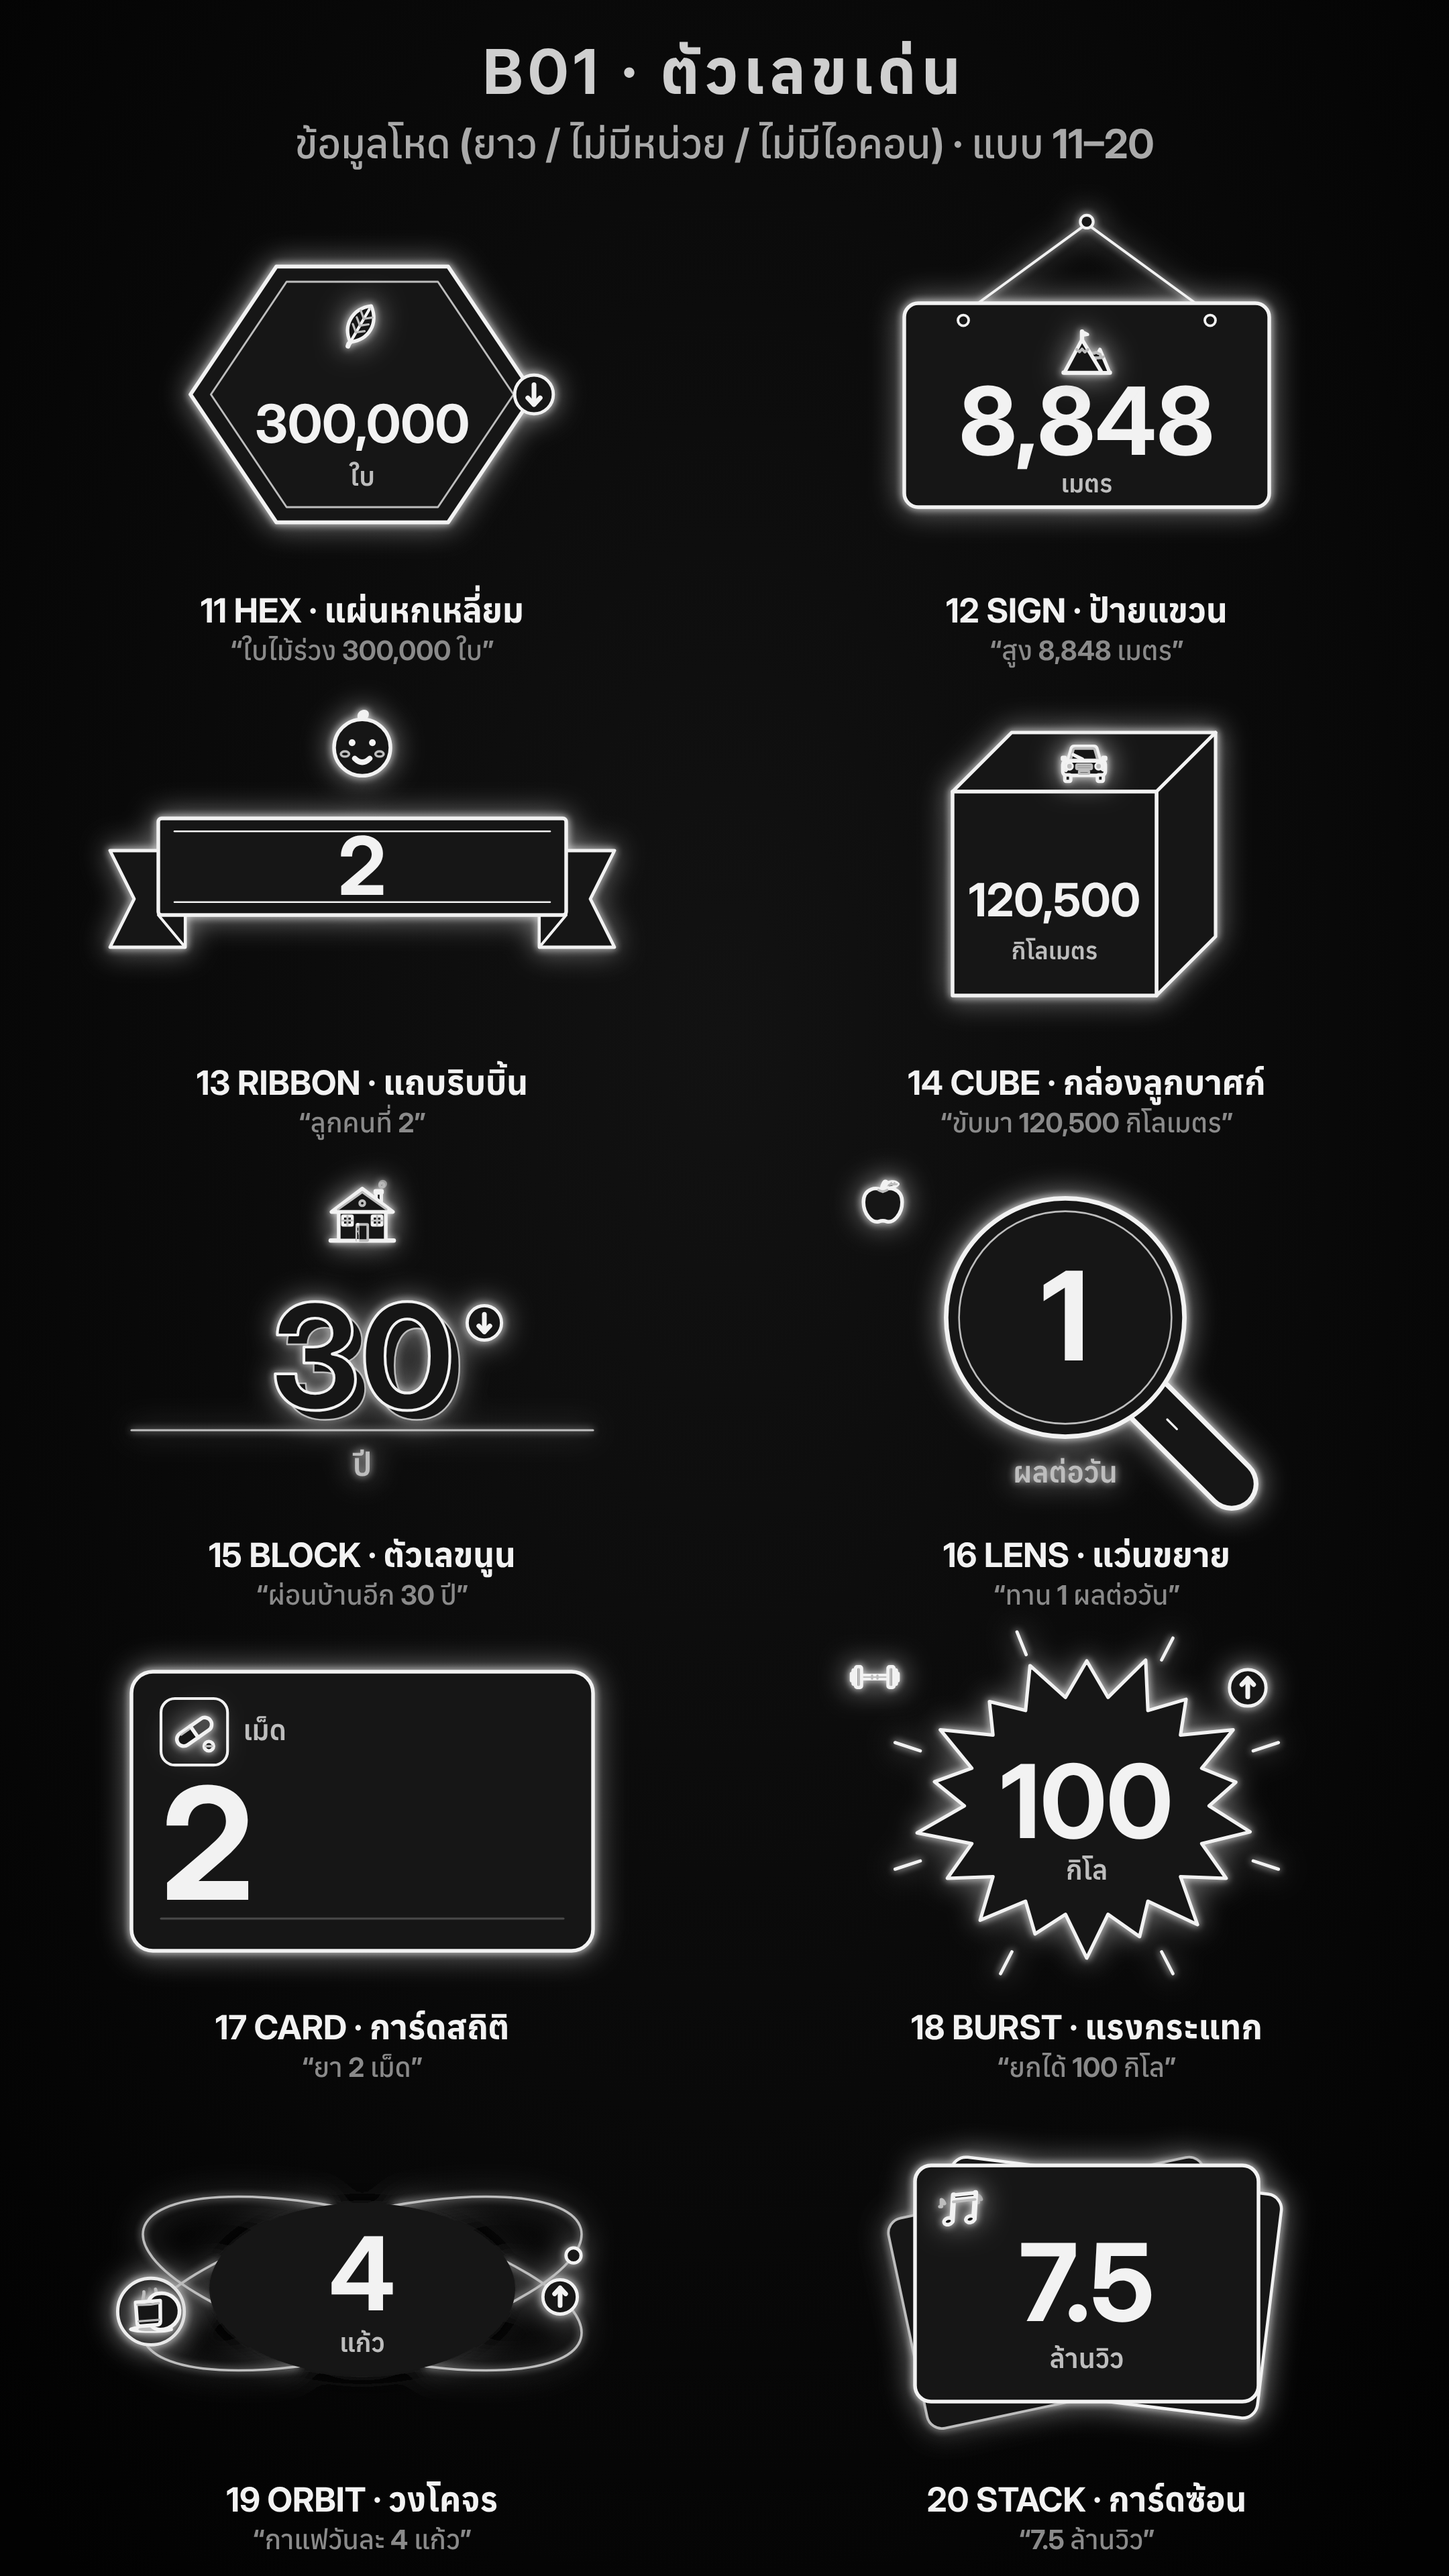
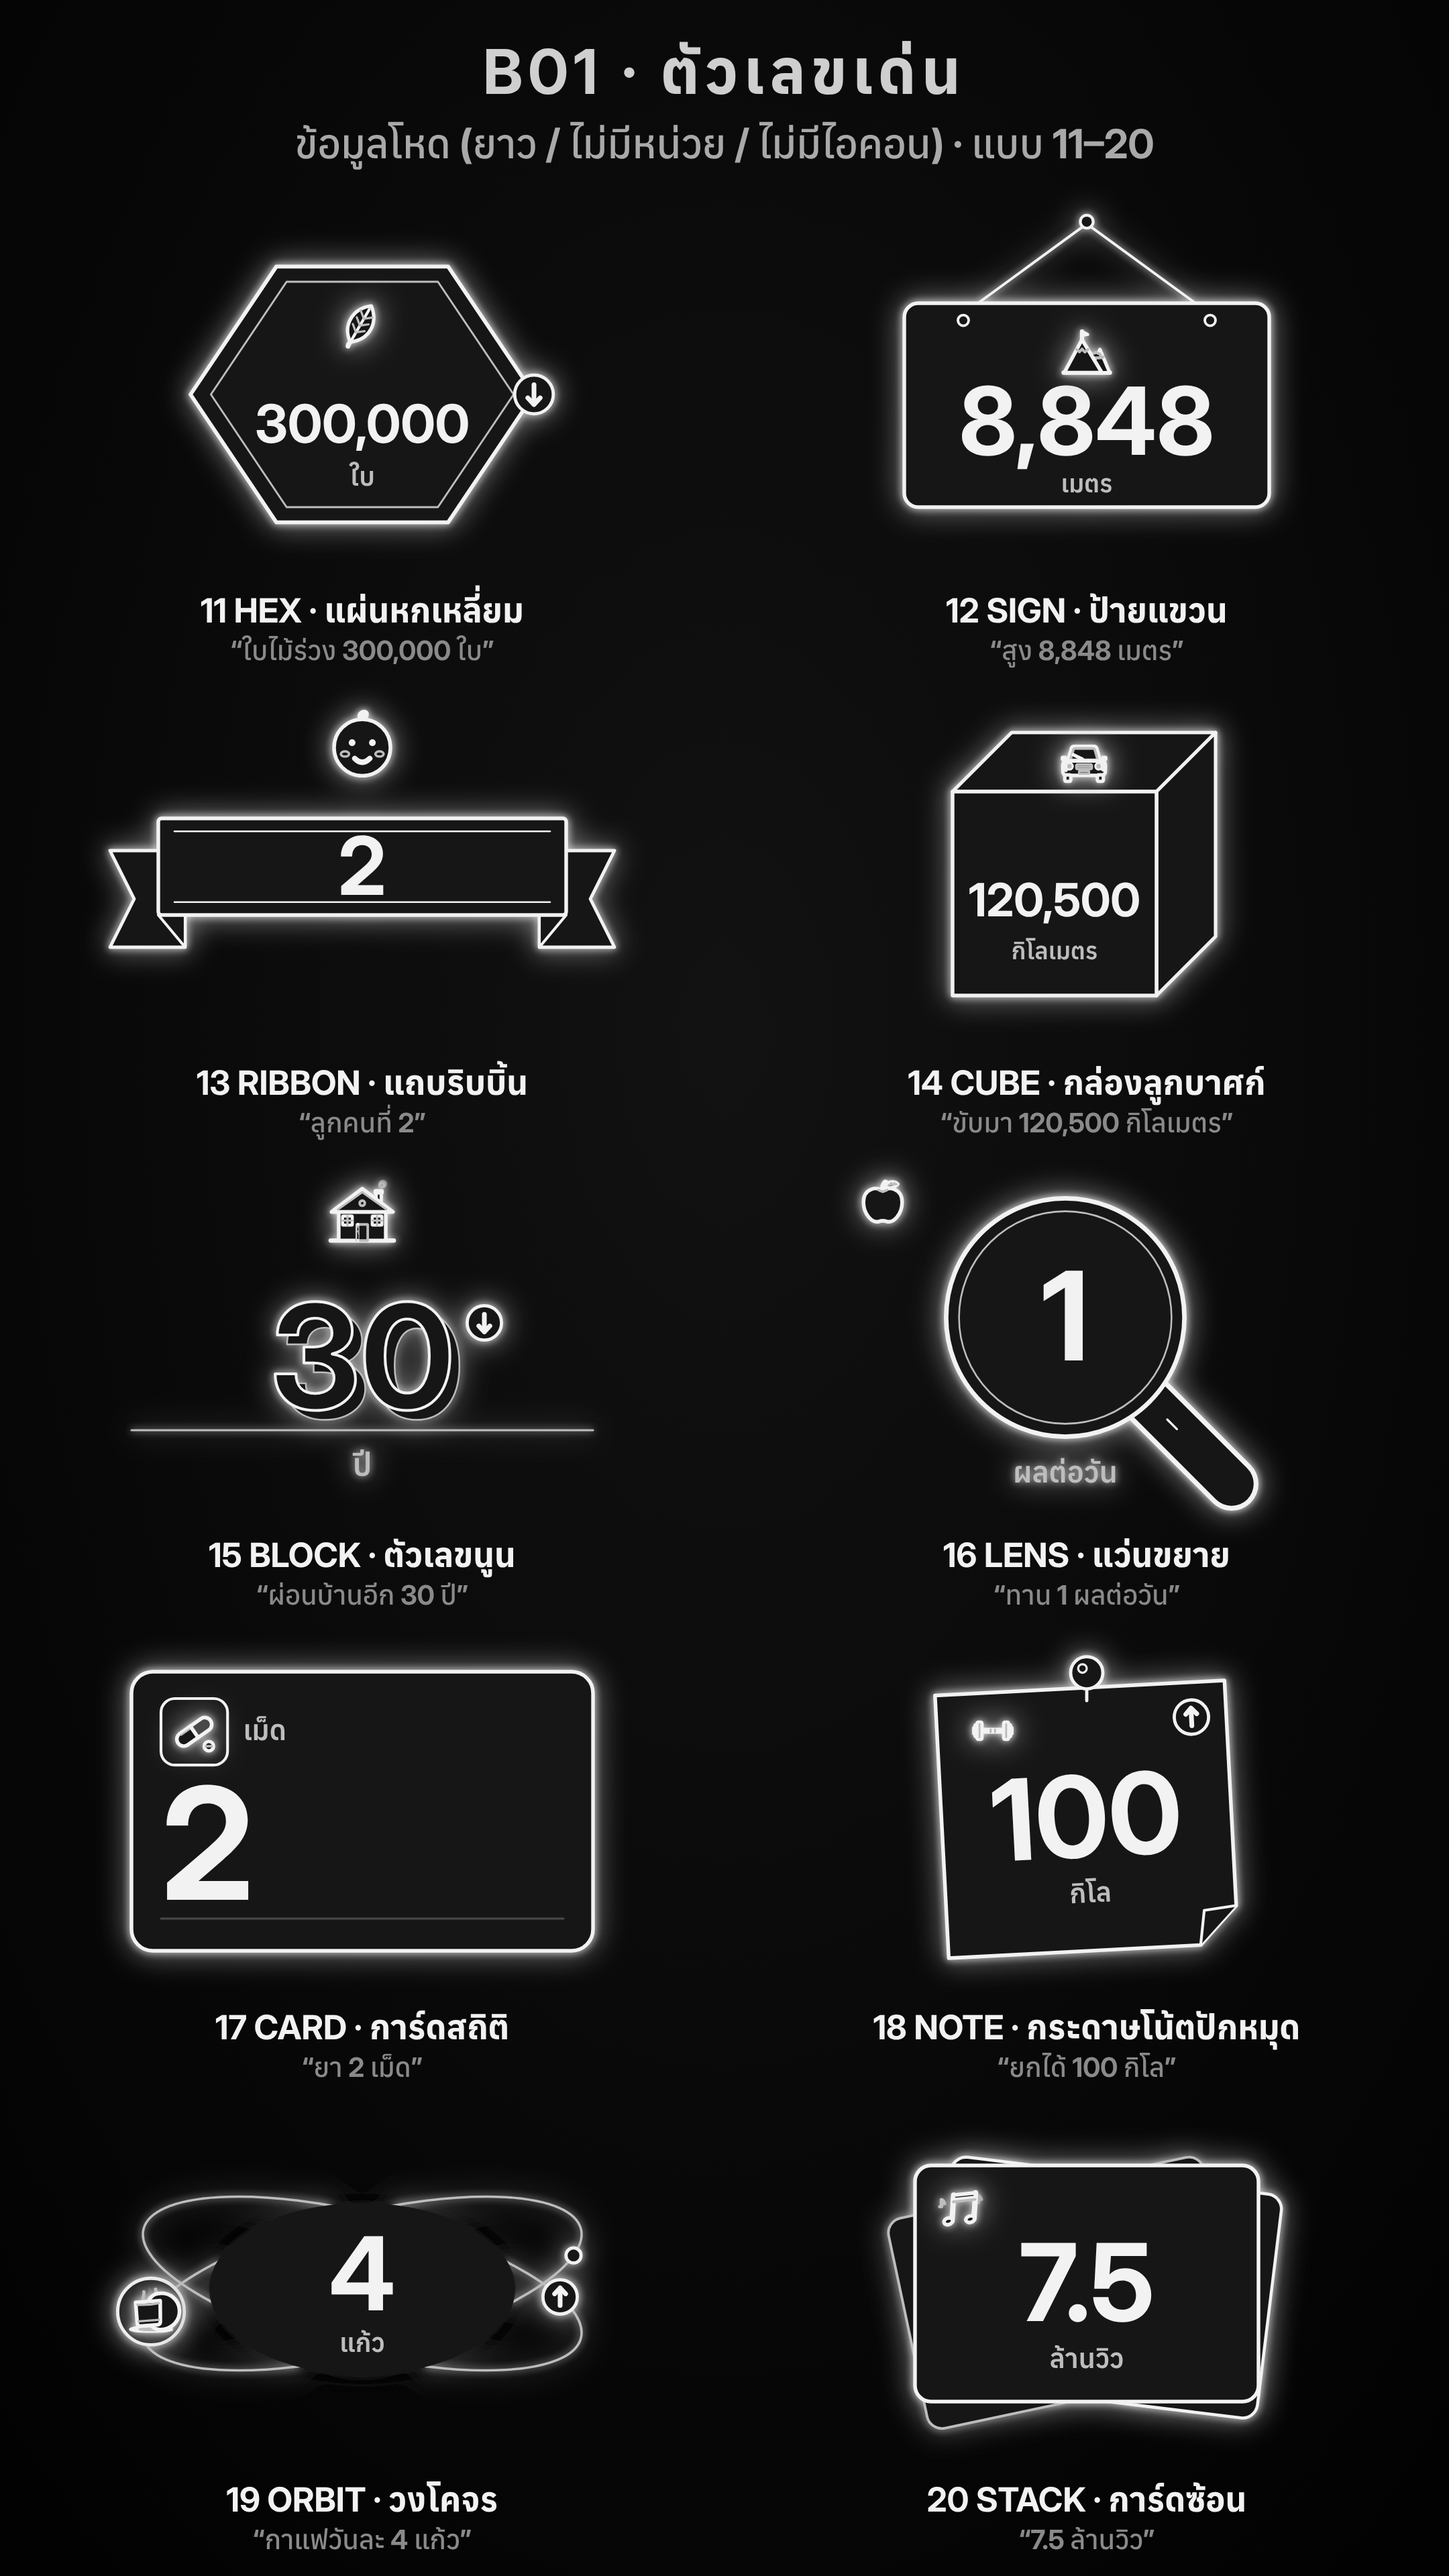
glow-line-motion: B01 design 18 = pinned note (user's pick); three options for redesigning 14
Claude-Session: https://claude.ai/code/session_01S8EfU7fAEGeBWyNc1CqSTP

Changed region(s): [[0.5894, 0.625, 0.8995, 0.8125]]

diff --git a/.claude/skills/glow-line-motion/examples/b01/b01.js b/.claude/skills/glow-line-motion/examples/b01/b01.js
@@ -328,54 +328,8 @@
     icon(d, -313, -148, 92, c);
   });
 
-  /* 18 ── BURST: an impact burst behind the number, a few speed strokes around it */
-  variant('burst', 'แรงกระแทก', (d, c) => {
-    const pts = [], n = 18, J = [0, .07, -.04, .05, -.06, .03];
-    for (let i = 0; i < n * 2; i++) { const a = rad(-90 + i * 180 / n), r = i % 2 ? 228 : 300 * (1 + J[i / 2 % 6 | 0]); pts.push([f1(r * Math.cos(a)), f1(-10 + r * .9 * Math.sin(a))]); }
-    art(c, p => {
-      [20, 65, 115, 160, 200, 250, 295, 340].forEach(a => { if (a > 200 && a < 250 && d.icon) return; p.line(f1(330 * Math.cos(rad(a))), f1(-10 + 300 * Math.sin(rad(a))), f1(380 * Math.cos(rad(a))), f1(-10 + 345 * Math.sin(rad(a))), W(3)); });
-      p.shape(pts, F(3.2));
-      txt(p, d.value, 0, d.unit ? 50 : 70, { size: 190, maxW: 400 });
-      if (d.unit) txt(p, d.unit, 0, 128, { size: 50, weight: 600, color: C.soft, maxW: 330 });
-      dirBadge(p, d.dir, 300, -230, 34);
-    });
-    icon(d, -395, -250, 100, c);
-  });
-
-  /* 18 alternatives (user disliked BURST, 2026-11-12) — kept outside V until the user picks one */
-  const ALT18 = [];
-  const alt = (id, th, build) => ALT18.push({ id, th, build });
-
-  /* 18a ── IRIS: an aperture ring; its blades have opened and the number sits in the opening */
-  alt('iris', 'ม่านรูรับแสง', (d, c) => {
-    art(c, p => {
-      p.circle(0, -10, 290, F(3.6));
-      for (let i = 0; i < 8; i++) { const a = rad(i * 45), b = rad(i * 45 + 52);
-        p.path(`M ${f1(204 * Math.cos(a))} ${f1(-10 + 204 * Math.sin(a))} Q ${f1(262 * Math.cos(a + .28))} ${f1(-10 + 262 * Math.sin(a + .28))} ${f1(278 * Math.cos(b))} ${f1(-10 + 278 * Math.sin(b))}`, W(2)); }
-      p.circle(0, -10, 204, F(3));
-      txt(p, d.value, 0, d.unit ? 45 : 60, { size: 170, maxW: 340 });
-      if (d.unit) txt(p, d.unit, 0, 118, { size: 44, weight: 600, color: C.soft, maxW: 290 });
-      dirBadge(p, d.dir, 250, -155, 34);
-    });
-    icon(d, -390, -250, 100, c);
-  });
-
-  /* 18b ── SCROLL: a paper scroll unrolled between two rolls, the number written on it */
-  alt('scroll', 'ม้วนกระดาษ', (d, c) => {
-    art(c, p => {
-      p.rect(-340, -150, 680, 320, F(3.2));
-      [-1, 1].forEach(sd => { const x = sd * 360;
-        p.rect(x - 28, -196, 56, 412, Object.assign({ rx: 24 }, F(3.2)));
-        p.ellipse(x, -196, 28, 9, W(2)); p.line(x - 12, -150, x - 12, 170, W(1.6)); });
-      txt(p, d.value, 0, d.unit ? 55 : 75, { size: 190, maxW: 560 });
-      if (d.unit) txt(p, d.unit, 0, 135, { size: 50, weight: 600, color: C.soft, maxW: 540 });
-      dirBadge(p, d.dir, 300, -150, 32);
-    });
-    icon(d, 0, -268, 110, c);
-  });
-
-  /* 18c ── NOTE: a paper note pinned to the wall, slightly turned, corner folded */
-  alt('note', 'กระดาษโน้ตปักหมุด', (d, c) => {
+  /* 18 ── NOTE: a paper note pinned to the wall, slightly turned, corner folded (user picked it over BURST, 2026-11-12) */
+  variant('note', 'กระดาษโน้ตปักหมุด', (d, c) => {
     art(c, p => {
       const q = p.child({ transform: 'rotate(-3 0 20)' });
       q.path('M -270 -230 L 270 -230 L 270 190 L 200 260 L -270 260 Z', F(3.4));
@@ -386,6 +340,50 @@
       dirBadge(q, d.dir, 205, -165, 32);
     });
     icon(d, -175, -150, 82, c);
+  });
+
+  /* 14 alternatives (user asked to redesign CUBE, 2026-11-12) — kept outside V until the user picks one */
+  const ALT14 = [];
+  const alt = (id, th, build) => ALT14.push({ id, th, build });
+
+  /* 14a ── PLINTH: the number stands on a display plinth, the unit engraved on its front */
+  alt('plinth', 'แท่นโชว์', (d, c) => {
+    art(c, p => {
+      p.rect(-240, 296, 480, 30, Object.assign({ rx: 6 }, F(3)));
+      p.rect(-200, 128, 400, 168, F(3.2)); p.line(-170, 150, -170, 274, W(1.6)); p.line(170, 150, 170, 274, W(1.6));
+      p.rect(-232, 102, 464, 28, Object.assign({ rx: 6 }, F(3)));
+      txt(p, d.value, 0, 46, { size: 280, maxW: 780 });
+      if (d.unit) txt(p, d.unit, 0, 230, { size: 48, weight: 600, color: C.soft, maxW: 300 });
+      dirBadge(p, d.dir, 200, 128, 32);
+    });
+    icon(d, -395, -240, 100, c);
+  });
+
+  /* 14b ── SHUTTER: a roller shutter has rolled up into its box, the number stands in the opening */
+  alt('shutter', 'บานม้วน', (d, c) => {
+    art(c, p => {
+      p.rect(-370, -250, 740, 510, Object.assign({ rx: 14 }, F(3.4)));
+      p.rect(-330, -150, 660, 370, F(2.2));
+      p.rect(-370, -250, 740, 104, Object.assign({ rx: 14 }, F(3.2))); [-218, -196, -174].forEach(y => p.line(-330, y, 330, y, W(1.6)));
+      p.rect(-330, -150, 660, 24, F(2.6)); p.rect(-40, -126, 80, 12, Object.assign({ rx: 6 }, F(2)));
+      txt(p, d.value, 0, d.unit ? 110 : 130, { size: 200, maxW: 580 });
+      if (d.unit) txt(p, d.unit, 0, 190, { size: 50, weight: 600, color: C.soft, maxW: 560 });
+      dirBadge(p, d.dir, 330, -98, 30);
+    });
+    icon(d, -420, -300, 84, c);
+  });
+
+  /* 14c ── FLIP: one big split-flap tile — a hinge line runs through the middle of the number */
+  alt('flip', 'แผ่นพลิก', (d, c) => {
+    art(c, p => {
+      p.rect(-380, -200, 760, 400, Object.assign({ rx: 26 }, F(3.4)));
+      const t = txt(p, d.value, 0, 86, { size: 240, maxW: 660 }); t.e.setAttribute('y', f1(t.size * .36));
+      p.line(-380, 0, 380, 0, { sw: 9, stroke: C.fill }); p.line(-380, 0, 380, 0, W(2));
+      [-1, 1].forEach(sd => p.rect(sd * 392 - 10, -22, 20, 44, Object.assign({ rx: 6 }, F(2.6))));
+      if (d.unit) txt(p, d.unit, 0, 290, { size: 56, weight: 600, color: C.soft, maxW: 740 });
+      dirBadge(p, d.dir, 380, -200, 32);
+    });
+    icon(d, 0, -278, 110, c);
   });
 
   /* 19 ── ORBIT: two orbits circle the number; the icon rides one of them */
@@ -465,5 +463,5 @@
   ];
 
   G.cats = G.cats || {};          // GL.B01 is taken by the older beats.js template
-  G.cats.B01 = { variants: V, ALT18, SAMPLES, STRESS, draw: (i, d, c) => V[i].build(d, c) };
+  G.cats.B01 = { variants: V, ALT14, SAMPLES, STRESS, draw: (i, d, c) => V[i].build(d, c) };
 })();

diff --git a/.claude/skills/glow-line-motion/examples/b01/alt14.html b/.claude/skills/glow-line-motion/examples/b01/alt14.html
@@ -1,14 +1,14 @@
 <!doctype html>
-<html><head><meta charset="utf-8"><title>B01 design 18 options</title>
+<html><head><meta charset="utf-8"><title>B01 design 14 options</title>
 <script src="../../assets/glowline.js"></script><script src="b01.js"></script></head>
 <body><script>
-/* B01 design 18 — 3 replacement options (the user disliked BURST); each with an everyday sentence and a stress one */
+/* B01 design 18 — 3 replacement options (the user asked to redesign CUBE); each with an everyday sentence and a stress one */
 GL.run(() => {
   GL.stage();
-  const B = GL.cats.B01, D = [B.SAMPLES[17], B.STRESS[0]];
-  GL.text('B01 · แบบ 18 ใหม่ — เลือก 1 ทาง', { y: 74, size: 44, ls: 2, color: GL.C.kicker, glow: false });
+  const B = GL.cats.B01, D = [B.SAMPLES[13], B.STRESS[0]];
+  GL.text('B01 · แบบ 14 ใหม่ — เลือก 1 ทาง', { y: 74, size: 44, ls: 2, color: GL.C.kicker, glow: false });
   const top = 120, rh = (GL.H - top - 10) / 3, s = .48;
-  B.ALT18.forEach((v, r) => {
+  B.ALT14.forEach((v, r) => {
     const y0 = top + r * rh;
     GL.text(String.fromCharCode(65 + r) + ' · ' + v.th, { y: y0 + 46, size: 36, color: GL.C.ink, glow: false });
     D.forEach((d, k) => { const x = (k + .5) * GL.W / 2;

diff --git a/.claude/skills/glow-line-motion/HANDOFF.md b/.claude/skills/glow-line-motion/HANDOFF.md
@@ -32,8 +32,9 @@
 - แผ่น: `examples/b01/sheet-A1/A2.html` (ประโยคจาก 20 เรื่องต่างกัน) · `sheet-B1/B2.html` (ข้อมูลโหด: 9 หลัก, ไม่มีหน่วย/ไอคอน, อังกฤษ, 0, ทศนิยม).
   ภาพ: `motion/glow-line-cats/b01/b01-A1…B2.png`. **ส่งแล้ว รอผู้ใช้เลือกเก็บ/ลบ/แก้** → แล้วค่อยใส่ท่าขยับ 3–4 จังหวะ (เข้า → ทำงาน → ผลตรงคำสำคัญ → ค้าง)
   ตาม CATEGORIES ข้อ 9, ทำวิดีโอ.
-- ผู้ใช้: **"Design 18 ใหม่ ผมไม่ชอบแบบนั้น"** (burst) → เสนอ 3 ทาง `GL.cats.B01.ALT18`: A iris ม่านรูรับแสง · B scroll ม้วนกระดาษ · C note กระดาษโน้ตปักหมุด
-  (แผ่น `examples/b01/alt18.html`, ภาพ `motion/glow-line-cats/b01/b01-18-options.png`). **รอผู้ใช้เลือก** → ใส่แทน burst ใน `V` (ช่อง 18) แล้วลบ burst + ALT18 ที่เหลือ.
+- ผู้ใช้: **"Design 18 ใหม่ ผมไม่ชอบแบบนั้น"** (burst) → เสนอ 3 ทาง (iris / scroll / note) → ผู้ใช้ **"เอา C"** → แบบ 18 = `note` กระดาษโน้ตปักหมุด (burst ลบแล้ว).
+- ผู้ใช้: **"Redesign 14 ด้วย"** (cube) → เสนอ 3 ทาง `GL.cats.B01.ALT14`: A plinth แท่นโชว์ · B shutter บานม้วน · C flip แผ่นพลิก
+  (แผ่น `examples/b01/alt14.html`, ภาพ `motion/glow-line-cats/b01/b01-14-options.png`). **รอผู้ใช้เลือก** → ใส่แทน cube ใน `V` แล้วลบ cube + ALT14 ที่เหลือ.
 
 ## ✅ ตัวปรับท่าขยับกลาง — ทำเสร็จแล้ว (2026-11-12) · ผู้ใช้ตอบ **"ผ่าน"**
 
